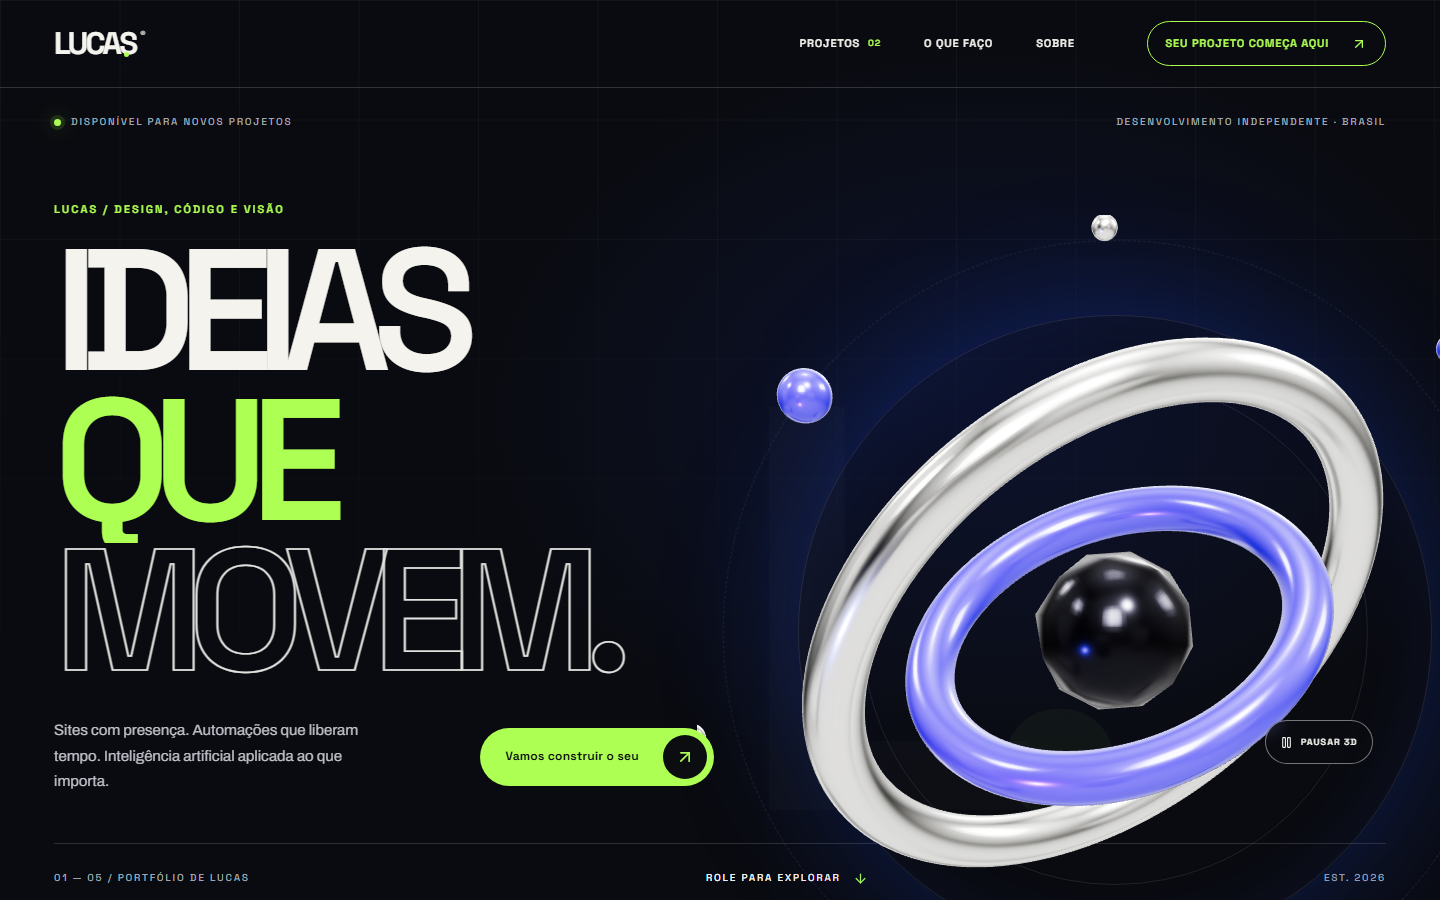
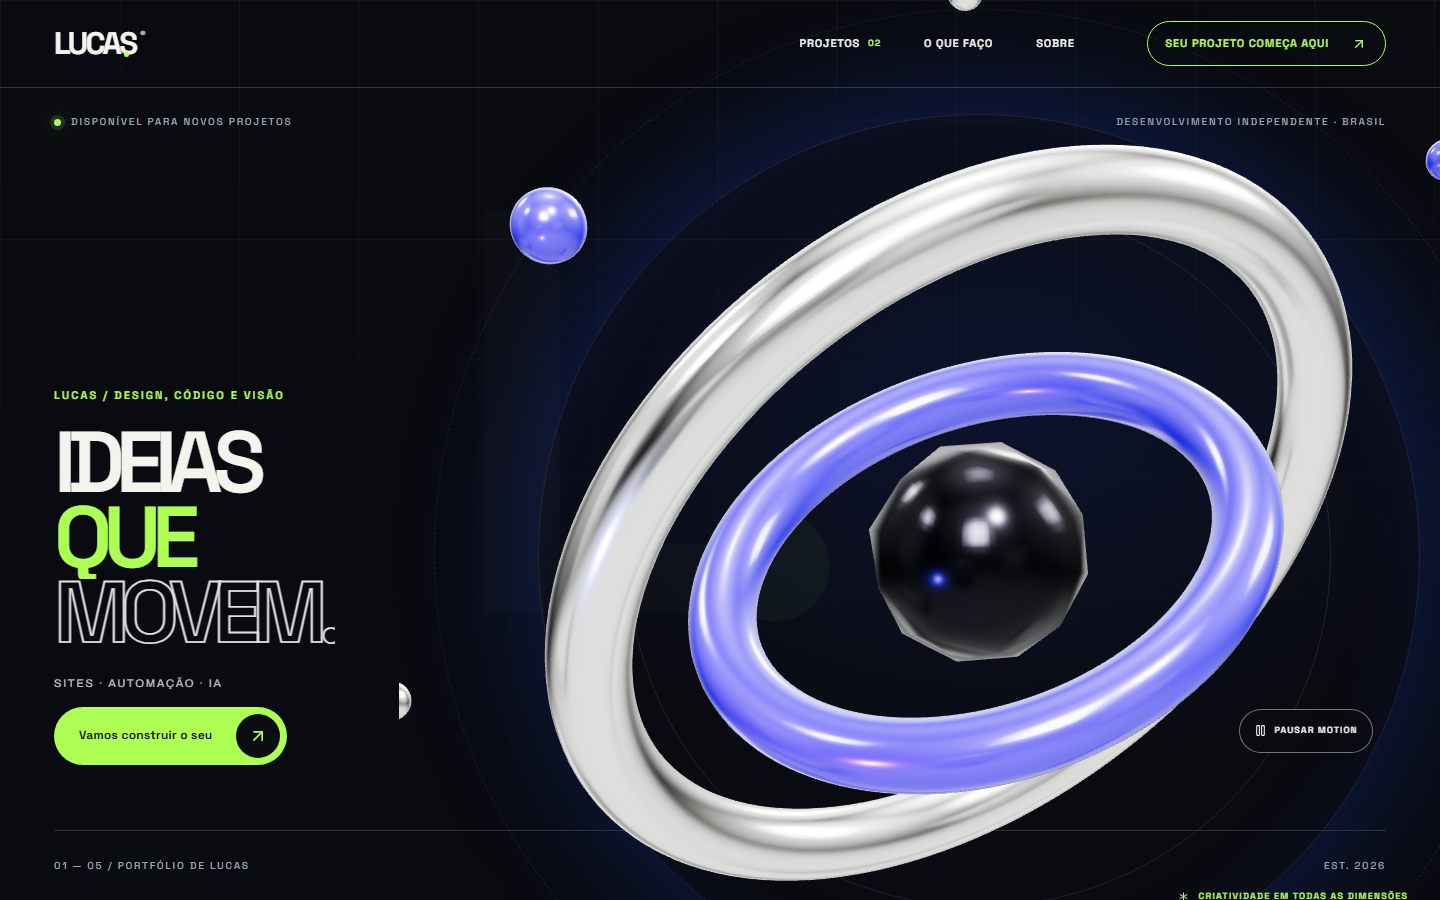
Make 3D scenes lead the portfolio and fix global pause poses

diff --git a/src/components/new-site.tsx b/src/components/new-site.tsx
@@ -1,6 +1,5 @@
-import { lazy, Suspense, useRef, useState, type ReactNode } from "react";
+import { createContext, lazy, Suspense, useContext, useRef, useState, type ReactNode } from "react";
 import {
-  AnimatePresence,
   motion,
   useMotionValue,
   useScroll,
@@ -29,6 +28,7 @@ import "./new-site.css";
 
 const Sculpture = lazy(() => import("./digital-sculpture"));
 const KineticWorld = lazy(() => import("./kinetic-world"));
+const MotionContext = createContext({ paused: false, toggle: () => {} });
 
 const easing = [0.22, 1, 0.36, 1] as const;
 
@@ -141,7 +141,7 @@ function Header() {
 
 function Hero() {
   const reduced = useReducedMotion();
-  const [paused, setPaused] = useState(false);
+  const { paused, toggle } = useContext(MotionContext);
   const ref = useRef<HTMLElement>(null);
   const { scrollYProgress } = useScroll({ target: ref, offset: ["start start", "end start"] });
   const y = useTransform(scrollYProgress, [0, 1], [0, 115]);
@@ -163,7 +163,7 @@ function Hero() {
             ))}
           </h1>
           <Reveal className="ns-hero-sub" delay={0.45}>
-            <p>Sites com presença. Automações que liberam tempo. Inteligência artificial aplicada ao que importa.</p>
+            <p>SITES · AUTOMAÇÃO · IA</p>
             <ArrowLink href={whatsappUrl()} light>Vamos construir o seu</ArrowLink>
           </Reveal>
         </div>
@@ -175,7 +175,7 @@ function Hero() {
           </Suspense>
           <span className="ns-object-caption"><Asterisk size={13} /> CRIATIVIDADE EM TODAS AS DIMENSÕES</span>
         </motion.div>
-        <button type="button" className="ns-motion-toggle" onClick={() => setPaused(!paused)} disabled={Boolean(reduced)} aria-label={reduced ? "Animação desativada pela preferência de movimento reduzido" : paused ? "Reproduzir animação 3D" : "Pausar animação 3D"}>{paused || reduced ? <Play size={13} /> : <Pause size={13} />} <span>{reduced ? "MOVIMENTO REDUZIDO" : paused ? "REPRODUZIR 3D" : "PAUSAR 3D"}</span></button>
+        <button type="button" className="ns-motion-toggle" onClick={toggle} disabled={Boolean(reduced)} aria-label={reduced ? "Animação desativada pela preferência de movimento reduzido" : paused ? "Reproduzir animação 3D" : "Pausar animação 3D"}>{paused || reduced ? <Play size={13} /> : <Pause size={13} />} <span>{reduced ? "MOVIMENTO REDUZIDO" : paused ? "REPRODUZIR MOTION" : "PAUSAR MOTION"}</span></button>
       </div>
       <div className="ns-hero-bottom ns-wrap">
         <span>01 — 05 / PORTFÓLIO DE LUCAS</span>
@@ -206,10 +206,11 @@ function Manifesto() {
 function Services() {
   const [active, setActive] = useState(0);
   const reduced = useReducedMotion();
+  const { paused } = useContext(MotionContext);
   return (
     <section id="servicos" className="ns-services">
       <div className="ns-wrap">
-        <Reveal className="ns-section-head"><p className="ns-section-label">02 / O QUE POSSO CRIAR</p><h2>O QUE VOCÊ IMAGINA,<br /><span>A GENTE COLOCA DE PÉ.</span></h2></Reveal>
+        <Reveal className="ns-section-head"><p className="ns-section-label">02 / O QUE POSSO CRIAR</p><h2>ESCOLHA UMA DIMENSÃO.</h2></Reveal>
         <div className="ns-services-grid">
           <div className="ns-service-list">
             {capabilities.map((item, index) => {
@@ -218,11 +219,10 @@ function Services() {
                 <button type="button" aria-expanded={active === index} onClick={() => setActive(index)}>
                   <span className="ns-service-num">{item.number}</span><span className="ns-service-title">{item.title}</span><Icon size={25} strokeWidth={1.4} aria-hidden="true" /><ArrowUpRight size={21} className="ns-service-arrow" aria-hidden="true" />
                 </button>
-                <AnimatePresence initial={false}>{active === index && <motion.div className="ns-service-content" initial={{ height: 0, opacity: 0 }} animate={{ height: "auto", opacity: 1 }} exit={{ height: 0, opacity: 0 }} transition={{ duration: 0.35 }}><p>{item.body}</p><div>{item.tags.map(tag => <span key={tag}>{tag}</span>)}</div><a href={whatsappUrl(item.contact)} target="_blank" rel="noopener noreferrer">Conversar sobre isso <ArrowUpRight size={16} /></a></motion.div>}</AnimatePresence>
               </div>;
             })}
           </div>
-          <div className="ns-service-stage"><span className="ns-stage-label">{capabilities[active].label} / {capabilities[active].number}</span><Suspense fallback={null}><KineticWorld variant={capabilities[active].visual} paused={Boolean(reduced)} /></Suspense><span className="ns-stage-index">ARRASTE O OLHAR. IMAGINE O SEU.</span></div>
+          <div className="ns-service-stage"><span className="ns-stage-label">{capabilities[active].label} / {capabilities[active].number}</span><Suspense fallback={null}><KineticWorld variant={capabilities[active].visual} paused={Boolean(reduced) || paused} /></Suspense><div className="ns-stage-footer"><p>{capabilities[active].body}</p><ArrowLink href={whatsappUrl(capabilities[active].contact)}>Conversar sobre isso</ArrowLink></div></div>
         </div>
       </div>
     </section>
@@ -248,7 +248,8 @@ function Projects() {
 
 function About() {
   const reduced = useReducedMotion();
-  return <section id="sobre" className="ns-about"><div className="ns-wrap ns-about-grid"><div className="ns-about-visual" aria-label="Monograma L tridimensional em movimento"><Suspense fallback={<span>L</span>}><KineticWorld variant="monolith" paused={Boolean(reduced)} /></Suspense><i>IDEIA<br />→<br />IMPACTO</i></div><Reveal className="ns-about-copy"><p className="ns-section-label">04 / QUEM ESTÁ POR TRÁS</p><h2>OI, EU SOU<br /><em>LUCAS.</em></h2><p>Crio sites, automações e experiências com IA. Você fala direto comigo.</p><div className="ns-about-facts"><span><Check size={17} /> CONVERSA DIRETA</span><span><Check size={17} /> SOLUÇÃO SOB MEDIDA</span><span><Check size={17} /> DO CONCEITO À ENTREGA</span></div><a href="https://github.com/lucas-dev-studio" target="_blank" rel="noopener noreferrer" className="ns-inline-link">Meu GitHub <ArrowUpRight size={17} /></a></Reveal></div></section>;
+  const { paused } = useContext(MotionContext);
+  return <section id="sobre" className="ns-about"><div className="ns-wrap ns-about-grid"><div className="ns-about-visual" aria-label="Monograma L tridimensional em movimento"><Suspense fallback={<span>L</span>}><KineticWorld variant="monolith" paused={Boolean(reduced) || paused} /></Suspense><i>IDEIA<br />→<br />IMPACTO</i></div><Reveal className="ns-about-copy"><p className="ns-section-label">04 / QUEM ESTÁ POR TRÁS</p><h2>OI, EU SOU<br /><em>LUCAS.</em></h2><p>Crio sites, automações e experiências com IA. Você fala direto comigo.</p><div className="ns-about-facts"><span><Check size={17} /> CONVERSA DIRETA</span><span><Check size={17} /> SOLUÇÃO SOB MEDIDA</span><span><Check size={17} /> DO CONCEITO À ENTREGA</span></div><a href="https://github.com/lucas-dev-studio" target="_blank" rel="noopener noreferrer" className="ns-inline-link">Meu GitHub <ArrowUpRight size={17} /></a></Reveal></div></section>;
 }
 
 function Process() {
@@ -261,11 +262,13 @@ function Process() {
 
 function Contact() {
   const reduced = useReducedMotion();
-  return <section id="contato" className="ns-contact"><div className="ns-wrap"><Reveal className="ns-contact-inner"><div className="ns-contact-top"><span><i className="ns-live-dot" /> AGENDA ABERTA PARA NOVAS IDEIAS</span><span>LUCAS / 2026</span></div><div className="ns-contact-world"><Suspense fallback={null}><KineticWorld variant="burst" paused={Boolean(reduced)} /></Suspense></div><h2>AGORA É<br /><span>A SUA VEZ</span><span className="ns-contact-dot">.</span></h2><div className="ns-contact-bottom"><p>Uma conversa. O próximo projeto.</p><ArrowLink href={whatsappUrl()} light>Falar com Lucas no WhatsApp</ArrowLink></div></Reveal></div></section>;
+  const { paused } = useContext(MotionContext);
+  return <section id="contato" className="ns-contact"><div className="ns-wrap"><Reveal className="ns-contact-inner"><div className="ns-contact-top"><span><i className="ns-live-dot" /> AGENDA ABERTA PARA NOVAS IDEIAS</span><span>LUCAS / 2026</span></div><div className="ns-contact-world"><Suspense fallback={null}><KineticWorld variant="burst" paused={Boolean(reduced) || paused} /></Suspense></div><h2>AGORA É<br /><span>A SUA VEZ</span><span className="ns-contact-dot">.</span></h2><div className="ns-contact-bottom"><p>Uma conversa. O próximo projeto.</p><ArrowLink href={whatsappUrl()} light>Falar com Lucas no WhatsApp</ArrowLink></div></Reveal></div></section>;
 }
 
 export default function NewSite() {
+  const [paused, setPaused] = useState(false);
   const { scrollYProgress } = useScroll();
   const scaleX = useSpring(scrollYProgress, { stiffness: 100, damping: 30 });
-  return <div className="ns-site"><a className="ns-skip" href="#conteudo">Pular para o conteúdo</a><motion.div className="ns-progress" style={{ scaleX }} aria-hidden="true" /><Header /><main id="conteudo"><Hero /><Manifesto /><Services /><Projects /><About /><Process /><Contact /></main><footer className="ns-footer"><div className="ns-wrap"><a href="#inicio" className="ns-footer-logo">LUCAS<span>®</span></a><span>DESIGN. CÓDIGO. POSSIBILIDADE.</span><div><a href="https://github.com/lucas-dev-studio" target="_blank" rel="noopener noreferrer">GITHUB <ArrowUpRight size={14} /></a><a href={`mailto:contato.lucadevstudio@gmail.com`}>E-MAIL <ArrowUpRight size={14} /></a><a href={whatsappUrl()} target="_blank" rel="noopener noreferrer">{whatsappLabel} <ArrowUpRight size={14} /></a></div><span>© {new Date().getFullYear()} LUCAS DEV STUDIO</span></div></footer></div>;
+  return <MotionContext.Provider value={{ paused, toggle: () => setPaused(value => !value) }}><div className={`ns-site ${paused ? "ns-motion-paused" : ""}`}><a className="ns-skip" href="#conteudo">Pular para o conteúdo</a><motion.div className="ns-progress" style={{ scaleX }} aria-hidden="true" /><Header /><main id="conteudo"><Hero /><Manifesto /><Services /><Projects /><About /><Process /><Contact /></main><footer className="ns-footer"><div className="ns-wrap"><a href="#inicio" className="ns-footer-logo">LUCAS<span>®</span></a><span>DESIGN. CÓDIGO. POSSIBILIDADE.</span><div><a href="https://github.com/lucas-dev-studio" target="_blank" rel="noopener noreferrer">GITHUB <ArrowUpRight size={14} /></a><a href={`mailto:contato.lucadevstudio@gmail.com`}>E-MAIL <ArrowUpRight size={14} /></a><a href={whatsappUrl()} target="_blank" rel="noopener noreferrer">{whatsappLabel} <ArrowUpRight size={14} /></a></div><span>© {new Date().getFullYear()} LUCAS DEV STUDIO</span></div></footer></div></MotionContext.Provider>;
 }

diff --git a/src/components/new-site.css b/src/components/new-site.css
@@ -310,3 +310,72 @@
 @media (prefers-reduced-motion: reduce) {
   .ns-manifesto-kinetic span, .ns-process-orb { animation: none; }
 }
+/* Scenes lead; copy acts as a compact caption. */
+.ns-hero { min-height: 900px; height: 100svh; }
+.ns-hero-main { min-height: 660px; align-items: end; }
+.ns-hero-copy { width: auto; padding: 0 0 65px; }
+.ns-hero h1 { font-size: clamp(64px, 6vw, 96px); max-width: 480px; }
+.ns-hero-sub { flex-direction: column; align-items: start; gap: 14px; margin-top: 20px; }
+.ns-hero-sub p { font-size: 11px; letter-spacing: .16em; }
+.ns-hero-object { width: min(82vw, 1160px); height: min(82vw, 1160px); top: -22%; right: -13%; }
+.ns-object-caption { bottom: 20%; }
+.ns-services-grid { grid-template-columns: 1fr; gap: 0; position: relative; }
+.ns-service-stage { grid-row: 1; min-height: 760px; }
+.ns-service-stage .ns-world { inset: 15px 0 100px; }
+.ns-service-list { display: flex; gap: 10px; margin-top: 16px; }
+.ns-service { flex: 1; border: 1px solid #aeb3ba; border-radius: 3px; }
+.ns-service:last-child { border: 1px solid #aeb3ba; }
+.ns-service > button { padding: 20px; min-height: 80px; gap: 12px; align-items: center; }
+.ns-service-title { font-size: clamp(16px, 1.7vw, 25px); }
+.ns-service-active { background: #0a0b10; color: #f4f3ee; }
+.ns-service-active .ns-service-num { color: #c0c4cc; }
+.ns-stage-footer { position: absolute; z-index: 5; bottom: 25px; left: 28px; right: 28px; display: flex; align-items: center; justify-content: space-between; gap: 20px; }
+.ns-stage-footer p { font-size: 15px; }
+.ns-section-head h2 { font-size: clamp(32px, 4vw, 64px); }
+.ns-about-grid { position: relative; display: block; }
+.ns-about-visual { width: 100%; max-width: none; height: 760px; aspect-ratio: auto; }
+.ns-about-visual .ns-world { inset: 0 0 10% 20%; }
+.ns-about-copy { position: absolute; z-index: 5; bottom: 45px; left: 35px; width: 330px; }
+.ns-about-copy h2 { font-size: 60px; margin: 20px 0; }
+.ns-about-copy > p:not(.ns-section-label) { font-size: 14px; max-width: 290px; }
+.ns-about-facts { gap: 5px; margin: 15px 0; }
+.ns-about-facts span { background: #f0efe9; }
+.ns-about-visual i { top: 30px; bottom: auto; }
+.ns-manifesto-content { align-self: end; padding-bottom: 30px; }
+.ns-manifesto h2 { font-size: clamp(32px, 4vw, 60px); }
+.ns-manifesto-kinetic { width: 62vw; top: -5%; right: -6%; }
+.ns-contact-world { width: min(90vw, 1100px); right: -8%; top: -23%; }
+.ns-contact h2 { font-size: clamp(60px, 6vw, 96px); padding-top: 300px; margin-bottom: 45px; }
+.ns-motion-paused * { animation-play-state: paused !important; }
+.ns-world-fallback { display: none; }
+.ns-world[data-fallback=true] .ns-world-fallback { display: grid; place-items: center; height: 100%; font: 700 250px/1 'Space Grotesk', sans-serif; color: #5368f3; text-shadow: 16px 20px #adff53; }
+@media (max-width: 800px) {
+  .ns-hero { height: auto; min-height: 1000px; }
+  .ns-hero-main { min-height: 800px; display: flex; align-items: end; }
+  .ns-hero-copy { padding: 0 0 65px; }
+  .ns-hero h1 { font-size: 66px; }
+  .ns-hero-object { width: 110vw; height: 110vw; top: -3%; right: -26%; opacity: 1; }
+  .ns-service-stage { min-height: 620px; }
+  .ns-service-list { flex-direction: column; gap: 8px; }
+  .ns-service > button { min-height: 64px; padding: 16px; }
+  .ns-service-title { font-size: 20px; }
+  .ns-stage-footer { flex-direction: column; align-items: start; gap: 10px; bottom: 20px; left: 20px; }
+  .ns-stage-footer p { margin: 0; }
+  .ns-service-stage .ns-world { inset: 0 0 120px; }
+  .ns-about-visual { height: 850px; }
+  .ns-about-visual .ns-world { inset: 0 0 230px; }
+  .ns-about-copy { bottom: 25px; left: 20px; right: 20px; width: auto; }
+  .ns-about-copy h2 { font-size: 44px; }
+  .ns-manifesto-kinetic { width: 95vw; right: -25%; top: -2%; opacity: 1; }
+  .ns-manifesto-grid { min-height: 690px; padding-bottom: 25px; }
+  .ns-contact-world { width: 115vw; right: -20%; top: -8%; opacity: 1; }
+  .ns-contact h2 { padding-top: 0; margin: 400px 0 40px; font-size: 58px; }
+}
+@media (max-width: 550px) {
+  .ns-hero-object { top: 0; width: 132vw; height: 132vw; right: -30%; }
+  .ns-hero h1 { font-size: 60px; }
+  .ns-service-stage { min-height: 550px; }
+  .ns-manifesto-kinetic { top: 0; right: -10%; width: 110vw; }
+  .ns-manifesto h2 { font-size: 36px; }
+  .ns-about-visual { height: 800px; }
+}

diff --git a/src/components/kinetic-world.tsx b/src/components/kinetic-world.tsx
@@ -39,6 +39,7 @@ export default function KineticWorld({ variant, paused = false }: Props) {
 
     const root = new THREE.Group();
     scene.add(root);
+    root.rotation.set(0.12, 0.28, -0.06);
     const geometries: THREE.BufferGeometry[] = [];
     const materials: THREE.Material[] = [];
     const makeGeometry = <T extends THREE.BufferGeometry>(geometry: T) => { geometries.push(geometry); return geometry; };
@@ -100,7 +101,7 @@ export default function KineticWorld({ variant, paused = false }: Props) {
       rail.position.z = -0.4;
       for (let i = 0; i < 5; i++) {
         const packet = add(makeGeometry(new THREE.BoxGeometry(0.24, 0.24, 0.24)), ivory);
-        packet.userData.packet = i;
+        packet.position.set(i * 0.82 - 2.3, -1.35, 0.5);
         moving.push(packet);
       }
     }
@@ -130,7 +131,9 @@ export default function KineticWorld({ variant, paused = false }: Props) {
       face.position.set(-0.2, 0.17, 0);
       for (let i = 0; i < 14; i++) {
         const cube = add(makeGeometry(new THREE.BoxGeometry(0.13, 0.13, 0.13)), i % 2 ? cobalt : ivory);
-        cube.userData.orbit = i;
+        const angle = i * 2.39996;
+        cube.position.set(Math.cos(angle) * 2.15, Math.sin(angle * 1.2) * 1.8, Math.sin(angle) * 1.3);
+        cube.rotation.set(angle, angle * 0.5, angle * 0.7);
         moving.push(cube);
       }
     }
@@ -178,15 +181,17 @@ export default function KineticWorld({ variant, paused = false }: Props) {
       px = (event.clientX - box.left) / box.width - 0.5;
       py = (event.clientY - box.top) / box.height - 0.5;
     };
+    const leave = () => { px = 0; py = 0; };
     host.addEventListener("pointermove", move);
+    host.addEventListener("pointerleave", leave);
     const tick = (time: number) => {
       frame = requestAnimationFrame(tick);
       const delta = Math.min((time - last) / 1000, 0.04);
       last = time;
       if (!visible || document.hidden || pausedRef.current) return;
       elapsed += delta;
-      root.rotation.y += (px * 0.4 + Math.sin(elapsed * 0.25) * 0.23 - root.rotation.y) * 0.04;
-      root.rotation.x += (-py * 0.25 - root.rotation.x) * 0.04;
+      root.rotation.y += (0.28 + px * 0.4 + Math.sin(elapsed * 0.25) * 0.23 - root.rotation.y) * 0.04;
+      root.rotation.x += (0.12 - py * 0.25 - root.rotation.x) * 0.04;
       root.position.y = Math.sin(elapsed * 0.65) * 0.08;
       if (variant === "automation") {
         moving.forEach((part, i) => {
@@ -218,6 +223,7 @@ export default function KineticWorld({ variant, paused = false }: Props) {
       sizeObserver.disconnect();
       visibilityObserver.disconnect();
       host.removeEventListener("pointermove", move);
+      host.removeEventListener("pointerleave", leave);
       geometries.forEach(geometry => geometry.dispose());
       materials.forEach(material => material.dispose());
       renderer.dispose();
@@ -225,5 +231,5 @@ export default function KineticWorld({ variant, paused = false }: Props) {
     };
   }, [variant]);
 
-  return <div className={`ns-world ns-world-${variant}`} data-world={variant} ref={hostRef} aria-hidden="true" />;
+  return <div className={`ns-world ns-world-${variant}`} data-world={variant} data-paused={paused} ref={hostRef} aria-hidden="true"><span className="ns-world-fallback">{variant === "monolith" ? "L" : "✦"}</span></div>;
 }

diff --git a/tests/sculpture.spec.ts b/tests/sculpture.spec.ts
@@ -22,6 +22,8 @@ test("hero sculpture mounts and its pause control works",async({page})=>{
  await expect(page.locator(".ns-hero-object .sculpture-canvas")).toHaveAttribute("data-ready","true");
  await page.getByRole("button",{name:"Pausar animação 3D"}).click();
  await expect(page.getByRole("button",{name:"Reproduzir animação 3D"})).toBeVisible();
+ await expect(page.locator(".ns-world[data-paused=false]")).toHaveCount(0);
+ await expect(page.locator(".ns-site")).toHaveClass(/ns-motion-paused/);
  await page.emulateMedia({reducedMotion:"reduce"});
  await expect(page.getByRole("button",{name:"Animação desativada pela preferência de movimento reduzido"})).toBeDisabled();
 });
